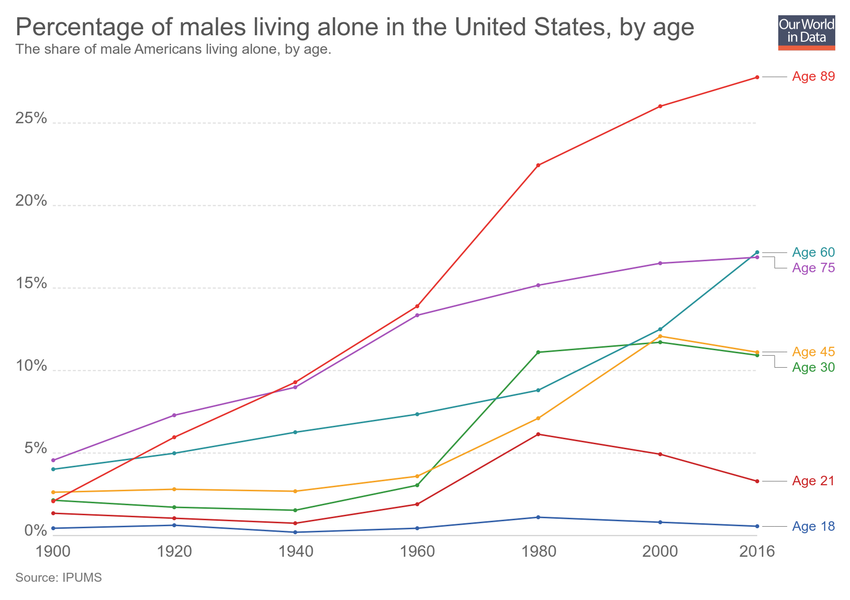
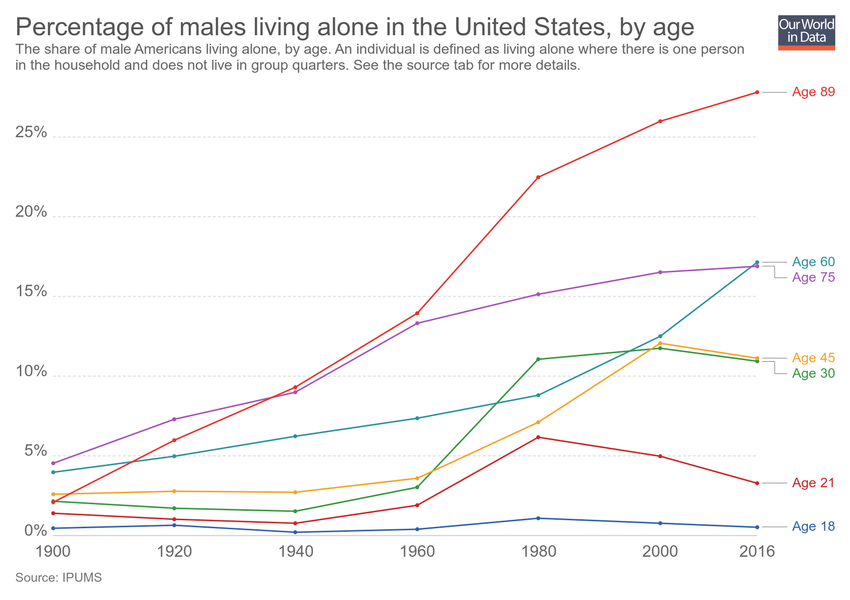
Updating chart percentage-of-males-living-alone-in-the-united-states-by-age

diff --git a/grapher/percentage-of-americans-living-alone-by-year.html b/grapher/percentage-of-americans-living-alone-by-year.html
@@ -1,4 +1,4 @@
-<!doctype html><html><head><meta name="viewport" content="width=device-width, initial-scale=1" /><title>Percentage of Americans living alone (1900-2016) - Our World in Data</title><meta name="description" content="The share of Americans living alone, by age (18-89), with age on the x-axis. An individual is defined as living alone where there is one person in the household and those who do not live in group quarters. See the source tab for more details." /><link rel="canonical" href="https://ourworldindata.org/grapher/percentage-of-americans-living-alone-by-year" /><meta property="fb:app_id" content="1149943818390250" /><meta property="og:url" content="https://ourworldindata.org/grapher/percentage-of-americans-living-alone-by-year" /><meta property="og:title" content="Percentage of Americans living alone (1900-2016)" /><meta property="og:description" content="The share of Americans living alone, by age (18-89), with age on the x-axis. An individual is defined as living alone where there is one person in the household and those who do not live in group quarters. See the source tab for more details." /><meta property="og:image" content="https://ourworldindata.org/grapher/exports/percentage-of-americans-living-alone-by-year.png?v=7" /><meta property="og:image:width" content="850" /><meta property="og:image:height" content="600" /><meta property="og:site_name" content="Our World in Data" /><meta name="twitter:card" content="summary_large_image" /><meta name="twitter:site" content="@OurWorldInData" /><meta name="twitter:creator" content="@OurWorldInData" /><meta name="twitter:title" content="Percentage of Americans living alone (1900-2016)" /><meta name="twitter:description" content="The share of Americans living alone, by age (18-89), with age on the x-axis. An individual is defined as living alone where there is one person in the household and those who do not live in group quarters. See the source tab for more details." /><meta name="twitter:image" content="https://ourworldindata.org/grapher/exports/percentage-of-americans-living-alone-by-year.png?v=7" /><style>
+<!doctype html><html><head><meta name="viewport" content="width=device-width, initial-scale=1" /><title>Percentage of Americans living alone (1900-2016) - Our World in Data</title><meta name="description" content="The share of Americans living alone, by age (18-89), with age on the x-axis. An individual is defined as living alone where there is one person in the household and does not live in group quarters. See the source tab for more details." /><link rel="canonical" href="https://ourworldindata.org/grapher/percentage-of-americans-living-alone-by-year" /><meta property="fb:app_id" content="1149943818390250" /><meta property="og:url" content="https://ourworldindata.org/grapher/percentage-of-americans-living-alone-by-year" /><meta property="og:title" content="Percentage of Americans living alone (1900-2016)" /><meta property="og:description" content="The share of Americans living alone, by age (18-89), with age on the x-axis. An individual is defined as living alone where there is one person in the household and does not live in group quarters. See the source tab for more details." /><meta property="og:image" content="https://ourworldindata.org/grapher/exports/percentage-of-americans-living-alone-by-year.png?v=8" /><meta property="og:image:width" content="850" /><meta property="og:image:height" content="600" /><meta property="og:site_name" content="Our World in Data" /><meta name="twitter:card" content="summary_large_image" /><meta name="twitter:site" content="@OurWorldInData" /><meta name="twitter:creator" content="@OurWorldInData" /><meta name="twitter:title" content="Percentage of Americans living alone (1900-2016)" /><meta name="twitter:description" content="The share of Americans living alone, by age (18-89), with age on the x-axis. An individual is defined as living alone where there is one person in the household and does not live in group quarters. See the source tab for more details." /><meta name="twitter:image" content="https://ourworldindata.org/grapher/exports/percentage-of-americans-living-alone-by-year.png?v=8" /><style>
         html, body {
             height: 100%;
             margin: 0;
@@ -20,8 +20,8 @@
         }
     </style><noscript><style>
                     figure { display: none !important; }
-                </style></noscript><link rel="stylesheet" href="https://ourworldindata.org/grapher/assets/commons.bundle.0187c87ba84a83fbad86.css" /><link rel="preload" href="/grapher/data/variables/97903.json?v=7" as="fetch" crossorigin /></head><body class="singleChart"><figure data-grapher-src="/grapher/percentage-of-americans-living-alone-by-year"></figure><noscript id="fallback"><img src="/grapher/exports/percentage-of-americans-living-alone-by-year.svg" /><p>Interactive visualization requires JavaScript</p></noscript><script src="https://cdn.polyfill.io/v2/polyfill.min.js?features=es6,fetch"></script><script src="https://ourworldindata.org/grapher/assets/commons.bundle.0187c87ba84a83fbad86.js"></script><script src="https://ourworldindata.org/grapher/assets/charts.bundle.0187c87ba84a83fbad86.js"></script><script>
-        var jsonConfig = {"id":2995,"map":{"projection":"World","colorSchemeLabels":[],"colorSchemeValues":[],"customNumericColors":[],"customCategoryColors":{},"customCategoryLabels":{},"customHiddenCategories":{}},"tab":"chart","slug":"percentage-of-americans-living-alone-by-year","type":"LineChart","title":"Percentage of Americans living alone (1900-2016)","xAxis":{"scaleType":"linear"},"yAxis":{"min":0,"scaleType":"linear"},"version":7,"subtitle":"The share of Americans living alone, by age (18-89), with age on the x-axis. An individual is defined as living alone where there is one person in the household and those who do not live in group quarters. See the source tab for more details.","hasMapTab":false,"stackMode":"absolute","dimensions":[{"display":{},"property":"y","variableId":97903}],"entityType":"year","hasChartTab":true,"isPublished":true,"selectedData":[{"index":0,"entityId":37978},{"index":0,"entityId":37979},{"index":0,"entityId":37980},{"index":0,"entityId":37981},{"index":0,"entityId":37982},{"index":0,"entityId":37983},{"index":0,"entityId":37984}],"addCountryMode":"add-country"};
+                </style></noscript><link rel="stylesheet" href="https://ourworldindata.org/grapher/assets/commons.bundle.0187c87ba84a83fbad86.css" /><link rel="preload" href="/grapher/data/variables/97903.json?v=8" as="fetch" crossorigin /></head><body class="singleChart"><figure data-grapher-src="/grapher/percentage-of-americans-living-alone-by-year"></figure><noscript id="fallback"><img src="/grapher/exports/percentage-of-americans-living-alone-by-year.svg" /><p>Interactive visualization requires JavaScript</p></noscript><script src="https://cdn.polyfill.io/v2/polyfill.min.js?features=es6,fetch"></script><script src="https://ourworldindata.org/grapher/assets/commons.bundle.0187c87ba84a83fbad86.js"></script><script src="https://ourworldindata.org/grapher/assets/charts.bundle.0187c87ba84a83fbad86.js"></script><script>
+        var jsonConfig = {"id":2995,"map":{"projection":"World","colorSchemeLabels":[],"colorSchemeValues":[],"customNumericColors":[],"customCategoryColors":{},"customCategoryLabels":{},"customHiddenCategories":{}},"tab":"chart","slug":"percentage-of-americans-living-alone-by-year","type":"LineChart","title":"Percentage of Americans living alone (1900-2016)","xAxis":{"scaleType":"linear"},"yAxis":{"min":0,"scaleType":"linear"},"version":8,"subtitle":"The share of Americans living alone, by age (18-89), with age on the x-axis. An individual is defined as living alone where there is one person in the household and does not live in group quarters. See the source tab for more details.","hasMapTab":false,"stackMode":"absolute","dimensions":[{"display":{},"property":"y","variableId":97903}],"entityType":"year","hasChartTab":true,"isPublished":true,"selectedData":[{"index":0,"entityId":37978},{"index":0,"entityId":37979},{"index":0,"entityId":37980},{"index":0,"entityId":37981},{"index":0,"entityId":37982},{"index":0,"entityId":37983},{"index":0,"entityId":37984}],"addCountryMode":"add-country"};
         var figure = document.getElementsByTagName("figure")[0];
         try {
             window.App = {};

diff --git a/grapher/percentage-of-americans-living-alone-by-age.html b/grapher/percentage-of-americans-living-alone-by-age.html
@@ -1,4 +1,4 @@
-<!doctype html><html><head><meta name="viewport" content="width=device-width, initial-scale=1" /><title>Percentage of Americans living alone, by age - Our World in Data</title><meta name="description" content="The share of Americans living alone, by age. An individual is defined as living alone where there is one person in the household and does not live in group quarters. See the source tab for more details." /><link rel="canonical" href="https://ourworldindata.org/grapher/percentage-of-americans-living-alone-by-age" /><meta property="fb:app_id" content="1149943818390250" /><meta property="og:url" content="https://ourworldindata.org/grapher/percentage-of-americans-living-alone-by-age" /><meta property="og:title" content="Percentage of Americans living alone, by age" /><meta property="og:description" content="The share of Americans living alone, by age. An individual is defined as living alone where there is one person in the household and does not live in group quarters. See the source tab for more details." /><meta property="og:image" content="https://ourworldindata.org/grapher/exports/percentage-of-americans-living-alone-by-age.png?v=6" /><meta property="og:image:width" content="850" /><meta property="og:image:height" content="600" /><meta property="og:site_name" content="Our World in Data" /><meta name="twitter:card" content="summary_large_image" /><meta name="twitter:site" content="@OurWorldInData" /><meta name="twitter:creator" content="@OurWorldInData" /><meta name="twitter:title" content="Percentage of Americans living alone, by age" /><meta name="twitter:description" content="The share of Americans living alone, by age. An individual is defined as living alone where there is one person in the household and does not live in group quarters. See the source tab for more details." /><meta name="twitter:image" content="https://ourworldindata.org/grapher/exports/percentage-of-americans-living-alone-by-age.png?v=6" /><style>
+<!doctype html><html><head><meta name="viewport" content="width=device-width, initial-scale=1" /><title>Percentage of Americans living alone, by age - Our World in Data</title><meta name="description" content="The share of Americans living alone, by age. An individual is defined as living alone where there is one person in the household and does not live in group quarters. See the source tab for more details." /><link rel="canonical" href="https://ourworldindata.org/grapher/percentage-of-americans-living-alone-by-age" /><meta property="fb:app_id" content="1149943818390250" /><meta property="og:url" content="https://ourworldindata.org/grapher/percentage-of-americans-living-alone-by-age" /><meta property="og:title" content="Percentage of Americans living alone, by age" /><meta property="og:description" content="The share of Americans living alone, by age. An individual is defined as living alone where there is one person in the household and does not live in group quarters. See the source tab for more details." /><meta property="og:image" content="https://ourworldindata.org/grapher/exports/percentage-of-americans-living-alone-by-age.png?v=7" /><meta property="og:image:width" content="850" /><meta property="og:image:height" content="600" /><meta property="og:site_name" content="Our World in Data" /><meta name="twitter:card" content="summary_large_image" /><meta name="twitter:site" content="@OurWorldInData" /><meta name="twitter:creator" content="@OurWorldInData" /><meta name="twitter:title" content="Percentage of Americans living alone, by age" /><meta name="twitter:description" content="The share of Americans living alone, by age. An individual is defined as living alone where there is one person in the household and does not live in group quarters. See the source tab for more details." /><meta name="twitter:image" content="https://ourworldindata.org/grapher/exports/percentage-of-americans-living-alone-by-age.png?v=7" /><style>
         html, body {
             height: 100%;
             margin: 0;
@@ -20,8 +20,8 @@
         }
     </style><noscript><style>
                     figure { display: none !important; }
-                </style></noscript><link rel="stylesheet" href="https://ourworldindata.org/grapher/assets/commons.bundle.0187c87ba84a83fbad86.css" /><link rel="preload" href="/grapher/data/variables/97932.json?v=6" as="fetch" crossorigin /></head><body class="singleChart"><figure data-grapher-src="/grapher/percentage-of-americans-living-alone-by-age"></figure><noscript id="fallback"><img src="/grapher/exports/percentage-of-americans-living-alone-by-age.svg" /><p>Interactive visualization requires JavaScript</p></noscript><script src="https://cdn.polyfill.io/v2/polyfill.min.js?features=es6,fetch"></script><script src="https://ourworldindata.org/grapher/assets/commons.bundle.0187c87ba84a83fbad86.js"></script><script src="https://ourworldindata.org/grapher/assets/charts.bundle.0187c87ba84a83fbad86.js"></script><script>
-        var jsonConfig = {"id":3004,"map":{"projection":"World","colorSchemeLabels":[],"colorSchemeValues":[],"customNumericColors":[],"customCategoryColors":{},"customCategoryLabels":{},"customHiddenCategories":{}},"tab":"chart","slug":"percentage-of-americans-living-alone-by-age","type":"LineChart","title":"Percentage of Americans living alone, by age","xAxis":{"scaleType":"linear"},"yAxis":{"min":0,"scaleType":"linear"},"version":6,"subtitle":"The share of Americans living alone, by age. An individual is defined as living alone where there is one person in the household and does not live in group quarters. See the source tab for more details.","hasMapTab":false,"stackMode":"absolute","dimensions":[{"display":{},"property":"y","variableId":97932}],"entityType":"age","hasChartTab":true,"isPublished":true,"selectedData":[{"index":0,"entityId":38087},{"index":0,"entityId":38088},{"index":0,"entityId":38089},{"index":0,"entityId":38090},{"index":0,"entityId":38091},{"index":0,"entityId":38092},{"index":0,"entityId":38093}],"addCountryMode":"add-country"};
+                </style></noscript><link rel="stylesheet" href="https://ourworldindata.org/grapher/assets/commons.bundle.0187c87ba84a83fbad86.css" /><link rel="preload" href="/grapher/data/variables/97932.json?v=7" as="fetch" crossorigin /></head><body class="singleChart"><figure data-grapher-src="/grapher/percentage-of-americans-living-alone-by-age"></figure><noscript id="fallback"><img src="/grapher/exports/percentage-of-americans-living-alone-by-age.svg" /><p>Interactive visualization requires JavaScript</p></noscript><script src="https://cdn.polyfill.io/v2/polyfill.min.js?features=es6,fetch"></script><script src="https://ourworldindata.org/grapher/assets/commons.bundle.0187c87ba84a83fbad86.js"></script><script src="https://ourworldindata.org/grapher/assets/charts.bundle.0187c87ba84a83fbad86.js"></script><script>
+        var jsonConfig = {"id":3004,"map":{"projection":"World","colorSchemeLabels":[],"colorSchemeValues":[],"customNumericColors":[],"customCategoryColors":{},"customCategoryLabels":{},"customHiddenCategories":{}},"tab":"chart","slug":"percentage-of-americans-living-alone-by-age","type":"LineChart","title":"Percentage of Americans living alone, by age","xAxis":{"scaleType":"linear"},"yAxis":{"min":0,"scaleType":"linear"},"version":7,"subtitle":"The share of Americans living alone, by age. An individual is defined as living alone where there is one person in the household and does not live in group quarters. See the source tab for more details.","hasMapTab":false,"stackMode":"absolute","dimensions":[{"display":{},"property":"y","variableId":97932}],"entityType":"age","hasChartTab":true,"isPublished":true,"selectedData":[{"index":0,"entityId":38087},{"index":0,"entityId":38088},{"index":0,"entityId":38089},{"index":0,"entityId":38090},{"index":0,"entityId":38091},{"index":0,"entityId":38092},{"index":0,"entityId":38093}],"addCountryMode":"add-country"};
         var figure = document.getElementsByTagName("figure")[0];
         try {
             window.App = {};
